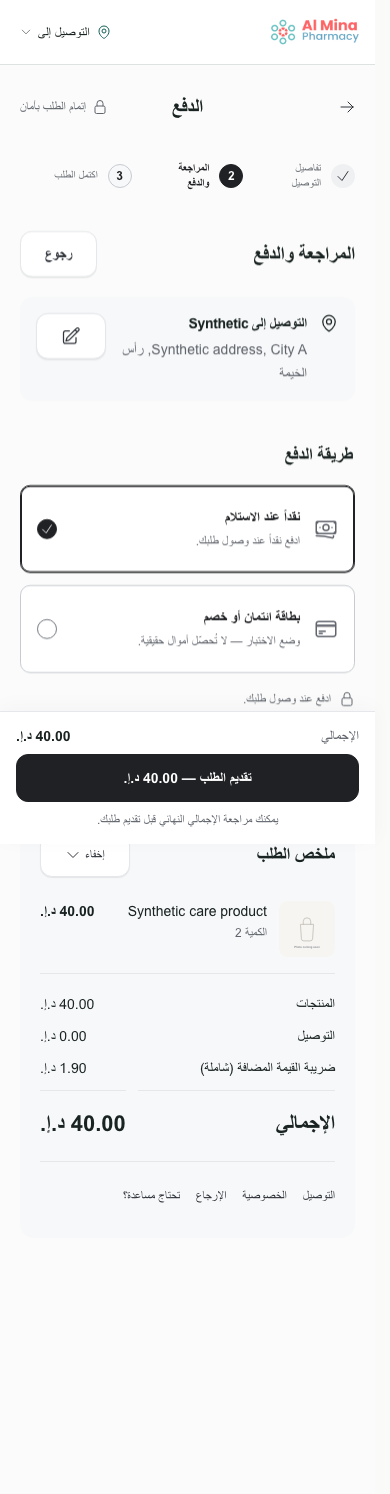
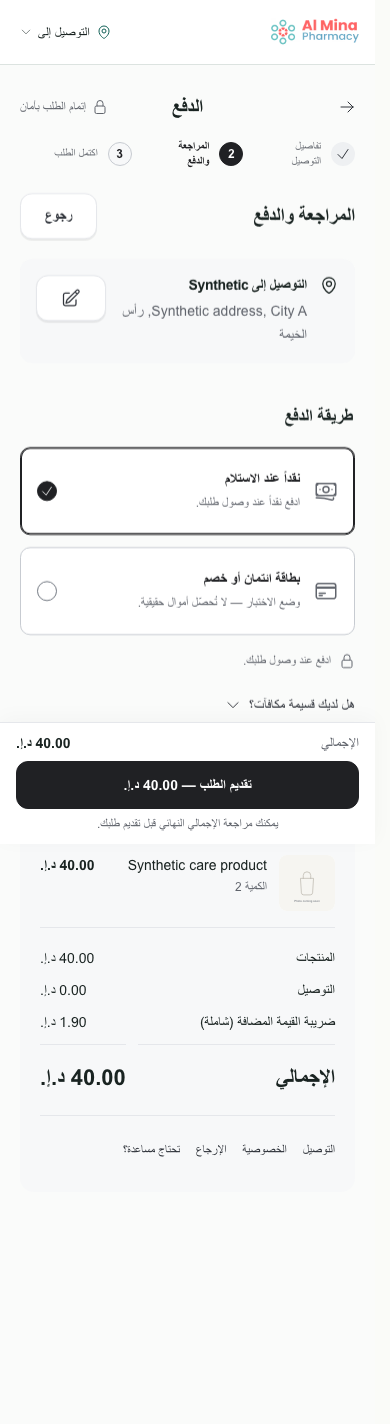
Polish checkout controls and compact mobile delivery form

diff --git a/apps/web/src/components/checkout-form.tsx b/apps/web/src/components/checkout-form.tsx
@@ -353,14 +353,14 @@ export function CheckoutForm({ locale = 'en', stripeMode='off',stripeTestMode=tr
               <Field><FieldLabel htmlFor={fieldIds.mobile}>{labels.mobile}</FieldLabel><Input id={fieldIds.mobile} name="mobile" defaultValue={attempt?.customer.mobile} required type="tel" inputMode="tel" pattern="\+?[0-9]{9,15}" autoComplete="tel" maxLength={32} placeholder={t(locale,'checkoutMobilePlaceholder')} {...fieldState('mobile')}/>{fieldIssue('mobile')}</Field>
               <Field className="sm:col-span-2"><FieldLabel htmlFor={fieldIds.email}>{labels.email}</FieldLabel><Input id={fieldIds.email} name="email" defaultValue={attempt?.customer.email} required type="email" inputMode="email" autoCapitalize="none" autoCorrect="off" maxLength={254} autoComplete="email" placeholder={t(locale,'checkoutEmailPlaceholder')} {...fieldState('email')}/>{fieldIssue('email')}</Field>
             </div></section>
-            <section className="checkout-form-section" aria-labelledby="delivery-details-heading"><div className="mb-4 flex flex-wrap items-center justify-between gap-2"><h3 id="delivery-details-heading" className="m-0 text-base font-semibold">{t(locale,'checkoutDeliveryAddress')}</h3><Button variant="ghost" type="button" size="sm" disabled={locating} onClick={locate}><Icon name="pin"/>{locating?t(locale,'checkoutLocating'):t(locale,'checkoutUseLocation')}</Button></div>
+            <section className="checkout-form-section" aria-labelledby="delivery-details-heading"><div className="mb-4 flex flex-wrap items-center justify-between gap-2"><h3 id="delivery-details-heading" className="m-0 text-base font-semibold">{t(locale,'checkoutDeliveryAddress')}</h3><Button variant="ghost" type="button" size="sm" disabled={locating} onClick={locate} aria-label={locating?t(locale,'checkoutLocating'):t(locale,'checkoutUseLocation')}><Icon name="pin"/><span className="lg:hidden">{locating?t(locale,'checkoutLocating'):(ar?'استخدام الموقع':'Use location')}</span><span className="hidden lg:inline">{locating?t(locale,'checkoutLocating'):t(locale,'checkoutUseLocation')}</span></Button></div>
               <input type="hidden" name="maplink" value={maplink}/>
               {locationMessage?<p role="status" className="mb-4 rounded-xl bg-subtle p-3 text-sm leading-6 text-ocean">{locationMessage}</p>:null}
               {maplink?<div className="mb-4 flex flex-wrap items-center gap-x-4 text-xs"><a className="inline-flex min-h-11 items-center text-teal underline" href={maplink} target="_blank" rel="noopener noreferrer" aria-label={t(locale,'checkoutCheckPinAria')}>{t(locale,'checkoutViewPin')}</a><button type="button" className="min-h-11 text-ocean" onClick={()=>{setMaplink('');setLocationMessage(t(locale,'checkoutPinRemoved'));setReviewed(null);}}>{t(locale,'checkoutRemovePin')}</button><a href="https://www.openstreetmap.org/copyright" target="_blank" rel="noopener noreferrer" className="text-ocean">{t(locale,'checkoutOsmCredit')}</a></div>:null}
               {savedAddresses.length?<Field className="mb-5"><FieldLabel htmlFor="checkout-form-field-4">{t(locale,'checkoutSavedAddress')}</FieldLabel><NativeSelect id="checkout-form-field-4" defaultValue="" onChange={event=>applySavedAddress(event.target.value)}><option value="">{t(locale,'checkoutChooseAddress')}</option>{savedAddresses.map(address=><option key={address.id} value={address.id}>{address.label}{address.isDefault?` · ${t(locale,'checkoutDefault')}`:''} — {address.city}</option>)}</NativeSelect></Field>:null}
-              <div className="grid gap-5 sm:grid-cols-2"><Field><FieldLabel htmlFor={fieldIds.emirate}>{labels.emirate}</FieldLabel><NativeSelect id={fieldIds.emirate} name="emirate" value={delivery.emirate} disabled={locating} onChange={event=>editDelivery('emirate',event.target.value)} required autoComplete="address-level1" {...fieldState('emirate')}>{emirates.map(value=><option key={value} value={value}>{emirateLabel(locale,value)}</option>)}</NativeSelect>{fieldIssue('emirate')}</Field>
+              <div className="checkout-address-grid grid gap-5 sm:grid-cols-2"><Field><FieldLabel htmlFor={fieldIds.emirate}>{labels.emirate}</FieldLabel><NativeSelect id={fieldIds.emirate} name="emirate" value={delivery.emirate} disabled={locating} onChange={event=>editDelivery('emirate',event.target.value)} required autoComplete="address-level1" {...fieldState('emirate')}>{emirates.map(value=><option key={value} value={value}>{emirateLabel(locale,value)}</option>)}</NativeSelect>{fieldIssue('emirate')}</Field>
                 <Field><FieldLabel htmlFor={fieldIds.city}>{labels.city}</FieldLabel><Input id={fieldIds.city} name="city" value={delivery.city} disabled={locating} onChange={event=>editDelivery('city',event.target.value)} required maxLength={200} autoComplete="address-level2" placeholder={t(locale,'checkoutCityPlaceholder')} {...fieldState('city')}/>{fieldIssue('city')}</Field>
-                <Field className="sm:col-span-2"><FieldLabel htmlFor={fieldIds.address}>{labels.address}</FieldLabel><Input id={fieldIds.address} name="address" value={delivery.address} disabled={locating} onChange={event=>editDelivery('address',event.target.value)} required maxLength={1000} autoComplete="street-address" placeholder={t(locale,'checkoutStreetPlaceholder')} {...fieldState('address')}/>{fieldIssue('address')}</Field>
+                <Field className="col-span-2"><FieldLabel htmlFor={fieldIds.address}>{labels.address}</FieldLabel><Input id={fieldIds.address} name="address" value={delivery.address} disabled={locating} onChange={event=>editDelivery('address',event.target.value)} required maxLength={1000} autoComplete="street-address" placeholder={t(locale,'checkoutStreetPlaceholder')} {...fieldState('address')}/>{fieldIssue('address')}</Field>
               </div>
               <details className="checkout-optional mt-4"><summary className="inline-flex min-h-11 cursor-pointer list-none items-center gap-2 text-sm font-medium text-teal">{ar?'إضافة تفاصيل المبنى أو تعليمات التوصيل':'Add building details or delivery instructions'}<ChevronDownIcon className="size-4" aria-hidden="true"/></summary><div className="grid gap-5 py-3 sm:grid-cols-2">
                 <Field><FieldLabel htmlFor="checkout-form-field-8">{t(locale,'checkoutBuilding')}</FieldLabel><Input id="checkout-form-field-8" name="buildingname" defaultValue={attempt?.customer.buildingname} maxLength={200} autoComplete="address-line2" placeholder={t(locale,'checkoutBuildingPlaceholder')}/></Field>

diff --git a/apps/web/src/app/(storefront)/storefront.css b/apps/web/src/app/(storefront)/storefront.css
@@ -412,3 +412,47 @@ body:has(.delivery-area-sheet[open]) { overflow: hidden; }
  @keyframes checkout-receipt-in { from {transform:translateY(5px);opacity:.6} to {transform:translateY(0);opacity:1} }
 }
 .checkout-flow.checkout-completion,.checkout-flow.checkout-payment-result { max-width:40rem; }
+
+/* Inset labels stay visible during typing; section spacing carries the grouping. */
+.checkout-form-section [data-slot='field'] { position:relative; gap:0; }
+.checkout-form-section [data-slot='field-label'] { position:absolute; z-index:1; top:9px; inset-inline-start:15px; width:auto; max-width:calc(100% - 30px); margin:0; color:#60646c; font-size:.75rem; line-height:1rem; font-weight:500; pointer-events:none; }
+.checkout-form-section :is([data-slot='input'],select) { min-height:64px; height:64px; padding-block:26px 9px; border:1px solid #d7dbe0; border-radius:12px; background:#f7f8fa; box-shadow:none; color:#202124; caret-color:#202124; }
+.checkout-form-section :is([data-slot='input'],select):hover:enabled { border-color:#a2a8b1; background:#f7f8fa; }
+.checkout-form-section :is([data-slot='input'],select):focus-visible { background:#fff; border-color:#30343b; outline:2px solid #30343b; outline-offset:2px; }
+.checkout-form-section :is([data-slot='input'],select)[aria-invalid='true'] { border-color:var(--color-sale); }
+.checkout-form-section [data-slot='field']:focus-within>[data-slot='field-label'] { color:#202124; }
+.checkout-form-section [data-slot='native-select-icon'] { top:39px; color:#4e5560; }
+.checkout-form-section [data-slot='field']>p { margin-block:6px 0; }
+.checkout-form-section>.grid,.checkout-optional>div { gap:12px; }
+.checkout-form-section>div:has(>h3) { margin-bottom:12px; }
+.checkout-form-section h3 { margin-bottom:12px; }
+.checkout-form-heading { padding-bottom:16px; }
+.checkout-flow .checkout-form-section { padding-block:20px; }
+.checkout-address-grid { grid-template-columns:repeat(2,minmax(0,1fr)); }
+.checkout-form-section select { padding-inline-end:36px; text-overflow:ellipsis; }
+@supports (appearance:base-select) {
+ .checkout-form select,.checkout-form select::picker(select) { appearance:base-select; }
+ .checkout-form select::picker-icon { display:none; }
+ .checkout-form select::picker(select) { margin-block:6px; padding:6px; background:#fff; border:1px solid #d7dbe0; border-radius:14px; box-shadow:0 8px 24px rgb(20 25 35 / 12%); max-height:320px; overflow:auto; color:#202124; }
+ .checkout-form select option { display:flex; align-items:center; gap:10px; min-height:44px; padding:10px 12px; border-radius:8px; font-size:.9375rem; line-height:1.4; cursor:pointer; }
+ .checkout-form select option:checked { background:#edf0f4; font-weight:600; }
+ .checkout-form select option:is(:hover,:focus) { background:#f2f4f7; outline:none; }
+ .checkout-form select option::checkmark { order:2; margin-inline-start:auto; }
+}
+@media (max-width:1023px) {
+ .checkout-topbar { margin-bottom:10px; }
+ .checkout-progress { padding-block:0 12px; margin-bottom:12px; }
+ .checkout-basket-preview { margin-bottom:20px; }
+ .checkout-basket-preview>summary { min-height:44px; }
+ .checkout-form-heading h2 { font-size:1.25rem; margin-bottom:4px; }
+ .checkout-form-heading>p { font-size:.75rem; line-height:1.5; }
+ .checkout-flow .checkout-form-section { padding-block:16px; }
+ .checkout-form-section [data-slot='field-label'] { top:8px; inset-inline-start:13px; }
+ .checkout-form-section :is([data-slot='input'],select) { height:60px; min-height:60px; padding-block:23px 8px; padding-inline-start:12px; }
+ .checkout-form-section select { font-size:.875rem; }
+ .checkout-form-section [data-slot='native-select-icon'] { top:36px; inset-inline-end:12px; }
+ .checkout-optional { margin-top:8px; }
+ .checkout-mobile-action { padding-block:10px calc(10px + env(safe-area-inset-bottom)); }
+ .checkout-mobile-action>p { margin-top:5px; }
+ .checkout-flow { padding-bottom:8.5rem; }
+}

diff --git a/tests/e2e/checkout-design-review.spec.ts b/tests/e2e/checkout-design-review.spec.ts
@@ -13,11 +13,22 @@ test('final checkout evidence, responsive controls, RTL and reduced motion',asyn
  await page.getByRole('button',{name:'Back',exact:true}).click();
  await expect(page.getByRole('heading',{name:'Contact and delivery',exact:true})).toBeFocused();
  await page.evaluate(()=>new Promise<void>(resolve=>requestAnimationFrame(()=>{window.scrollTo(0,0);requestAnimationFrame(()=>requestAnimationFrame(()=>resolve()));})));await page.screenshot({path:`${directory}/mobile-details.png`,fullPage:true});
+ await expect(page.locator('[name=address]')).toHaveCSS('height','60px');
+ expect(await page.locator('[name=address]').evaluate(el=>el.getBoundingClientRect().bottom+window.scrollY)).toBeLessThan(1000);
+ await page.getByRole('combobox',{name:'Emirate',exact:true}).click();
+ await page.evaluate(()=>new Promise<void>(resolve=>requestAnimationFrame(()=>requestAnimationFrame(()=>resolve()))));
+ await page.screenshot({path:`${directory}/dropdown.png`});
+ await page.keyboard.press('Escape');
  await page.getByRole('button',{name:'Continue to payment',exact:true}).click();
  await page.setViewportSize({width:1440,height:1000});await page.getByRole('button',{name:'العربية',exact:true}).click();
  await page.setViewportSize({width:390,height:844});await page.evaluate(()=>window.scrollTo(0,0));
  await expect(page.getByRole('heading',{name:'المراجعة والدفع',exact:true})).toBeVisible();
  await page.screenshot({path:`${directory}/arabic.png`,fullPage:true});
+ await page.getByRole('button',{name:'رجوع',exact:true}).click();
+ await expect(page.locator('.checkout-form-heading h2')).toBeFocused();
+ await page.evaluate(()=>new Promise<void>(resolve=>requestAnimationFrame(()=>{window.scrollTo(0,0);requestAnimationFrame(()=>requestAnimationFrame(()=>resolve()));})));
+ await page.screenshot({path:`${directory}/arabic-details.png`,fullPage:true});
+ await page.getByRole('button',{name:'المتابعة إلى الدفع',exact:true}).click();
  await page.emulateMedia({reducedMotion:'reduce'});
  await page.getByRole('button',{name:/تقديم الطلب/}).click();
  await expect(page.getByRole('heading',{name:'تم استلام الطلب',exact:true})).toBeVisible();

diff --git a/docs/migration/CHECKOUT_UX_2026-10-30.md b/docs/migration/CHECKOUT_UX_2026-10-30.md
@@ -8,17 +8,19 @@ Detail validation reuses the commerce contract. Formatted and Arabic-digit mobil
 
 Owner's later reference feedback replaces the initial mint treatment with scoped white, charcoal and cool gray. Related controls group through proximity, complete payment cards are touch targets, and the total/action hold the strongest emphasis. Product thumbnails persist after review. Verified success uses a short blue ring/receipt reveal. Motion uses CSS transform/opacity, existing easing, pointer gating and reduced-motion overrides; no dependencies added.
 
+The latest control refinement keeps labels persistently inset above entered values and uses soft filled fields with 12px corners, 60px height on mobile/tablet and 64px from 1024px. Emirate and City share one row even on narrow phones. Compact header, basket and contact/address spacing reduce the delivery form’s height without removing fields. The mobile location action reads “Use location” (with its Arabic equivalent), while its full localized accessible name remains intact. Native selects gain a styled option menu only inside `@supports (appearance:base-select)`, using `::picker(select)`; supporting Chromium was captured with the menu open. Other engines retain their system picker. This is progressive native styling, not a universally custom dropdown, and adds no JavaScript dependency.
+
 ## Verification and limits
 
 Final validation passed: 252 unit tests, 179 disposable integration tests, typecheck, lint and the isolated production build. The actual Playwright checkout/payment run passed all 35 cases, covering responsive checkout at 360/390/768/1280px and card flow at 1440px; axe checks on checkout and cash confirmation; a real order in a disposable database; changed-price review; saved-intent retry; GPS/manual fallbacks; and mocked card cancellation, refund, paid, idempotency and authorization states. Card provider outcomes were mocked; no external payment was executed. Next.js MCP reported no compilation issues.
 
-The separate final capture test passed. Final renders were opened and inspected under `apps/web/.impeccable/review/checkout-final/`: `desktop.png`, `mobile.png`, `mobile-details.png`, `user-360.png`, `user-768.png`, `arabic.png` and `confirmation.png`. These show the final neutral revision; the captures under `checkout-before-reference-revision/` are superseded. The capture test confirmed the normal-mode success animation as `checkout-success-settle` with a `0.28s` duration. Browser emulation of reduced motion confirmed animation/transition suppression (`none`) on the checked checkout elements. This is actual browser evidence, separate from the CSS inspection and automated functional suite.
+The separate final capture test passed. Final renders were opened and inspected under `apps/web/.impeccable/review/checkout-final/`: `desktop.png`, `mobile.png`, `mobile-details.png`, `user-360.png`, `user-768.png`, `arabic.png`, `arabic-details.png`, `dropdown.png` and `confirmation.png`. These show the final neutral revision; the captures under `checkout-before-reference-revision/` are superseded. The capture test confirmed the normal-mode success animation as `checkout-success-settle` with a `0.28s` duration. The latest capture assertions also checked 60px mobile fields, paired Emirate/City, a mobile street-address bottom below 1000px in document coordinates, RTL and an open picker contained within the viewport. Browser emulation of reduced motion confirmed animation/transition suppression (`none`) on the checked checkout elements. This is actual browser evidence, separate from the CSS inspection and automated functional suite.
 
 No real charge, production order, production configuration change or deployment occurred. Physical phone behavior and an external payment-provider charge remain untested. No quantified PageSpeed improvement is claimed.
 
 ### Finish review
 
-The independent finish reviewer returned **ship** after the full five-section review, with no material fixes required. This disposition applies to the scoped checkout extension and its final source/render evidence; physical-phone and real-charge acceptance remain the separate limits stated above.
+The independent finish reviewer accepted the latest inset-label and native-picker refinement visually and requested one documentation fix. The checkout-specific control rules were added to DESIGN.md without changing the shared control baseline. The reviewer scored that fix resolved and returned **ship**. Physical-phone and real-charge acceptance remain the separate limits stated above.
 
 Rollback: revert the frontend change; no database migration or integration configuration rollback is needed.
 
@@ -30,21 +32,21 @@ sidecar, `apps/web/PRODUCT.md` and the checkout surface contract at
 against `checkout-form.tsx`, `checkout-ui.tsx`, `stripe-return.tsx` and the final
 checkout rules in `apps/web/src/app/(storefront)/storefront.css`. The document
 reference was read in full. This is an ordinary checkout extension; the existing
-design document and sidecar are preserved. The observations below compare final source with the opened final captures. Exact
+global design tokens and sidecar are preserved; DESIGN.md now includes an additive checkout-control subsection. The observations below compare final source with the opened final captures. Exact
 values are source declarations; screenshots corroborate their visible use without
 establishing new storefront tokens or a measured pixel-match claim.
 
 - **Palette:** checkout locally overrides ink to charcoal (`#202124`), supporting
   text to cool gray (`#60646c` / `#656970`), subtle surfaces to `#f7f8f9` and
-  control boundaries to `#c7cbd1`. Selected payment cards remain white with a
+  control defaults to `#c7cbd1`; the final inset fields locally use `#d7dbe0` boundaries and `#f7f8fa` fill. Selected payment cards remain white with a
   charcoal boundary and radio mark. Verified confirmation uses blue (`#2459a6`)
   on `#edf3fc`, with a `#b9cdec` ring. Error and warning semantics remain separate.
   This records the owner's neutral checkout request without replacing the
   incumbent storefront coral/pastel palette.
 - **Typography:** checkout inherits the existing storefront family and Arabic
-  fallback, visible in the English and RTL captures respectively. Source uses a 20/24px responsive checkout title, a 22px contact and
-  delivery heading, 18px summary heading, 16px field text, 14px labels/body and
-  12px supporting copy. The final total is 22px with tabular numerals. Confirmation
+  fallback, visible in the English and RTL captures respectively. Source uses a 20/24px responsive checkout title, a 20px mobile/22px desktop contact and
+  delivery heading, 18px summary heading, 16px input text, 14px mobile select text,
+  12px inset labels and supporting copy, and compact 14px body copy. The final total is 22px with tabular numerals. Confirmation
   uses 24/30px in the cash receipt and 24px in the hosted-payment return.
 - **Layout and depth:** the desktop capture shows grouped fields left and the
   quiet summary right; mobile/tablet captures show the separate review stage,
@@ -52,20 +54,22 @@ establishing new storefront tokens or a measured pixel-match claim.
   sits beside a 380px sticky summary with an 80px gap. Mobile shows details and
   payment as separate stages and uses a bottom action with safe-area padding.
   The form groups through spacing and separators, while the summary has a quiet
-  gray fill. Field and bottom-action shadows are faint ambient effects; no hard
+  gray fill. Final inset fields have no shadow. The bottom action retains a faint ambient
+  shadow, and supported native pickers use a soft overlay shadow; no hard
   offset shadow is introduced.
 - **Components and existing rules:** Heroicons, native payment radios, labelled
-  fields, linked validation, 48px primary controls and 44px utility targets retain
-  incumbent conventions. The Coral With Ink Rule still applies wherever coral
+  fields, linked validation, 48px primary actions and 44px utility targets retain
+  incumbent conventions. Checkout fields deliberately extend the shared 48px baseline to
+  60px on mobile/tablet and 64px on desktop for persistent inset labels. The Coral With Ink Rule still applies wherever coral
   is used; the Flat Product Rule is unchanged. Checkout's native disclosures,
   full-card payment labels and server-confirmed totals are local task patterns,
   not new global visual prohibitions. Existing motion easing is reused, with
   reduced-motion overrides; receipt/ring effects are declared locally and do
   not establish an entrance-animation requirement for future commerce surfaces.
-- **Shapes and contract alignment:** the final CSS declares 9px field corners,
+- **Shapes and contract alignment:** the final CSS declares 12px inset-field corners,
   10px payment/action corners and a 14px summary, with charcoal progress and blue
-  verified success. The surface contract was reconciled to these source values
-  during this pass. The captures show the neutral progress, selected radio card and blue
+  verified success. The surface contract records the final 60/64px inset-field extension and
+  feature-gated native picker. The captures show the neutral progress, selected radio card and blue
   confirmation ring. These remain local checkout observations and are not added
   to the incumbent storefront token scales.
 

diff --git a/apps/web/DESIGN.md b/apps/web/DESIGN.md
@@ -231,6 +231,16 @@ Product cards have 16px corners, white fill, pale 1px borders and 12px padding. 
 
 Shared Input and NativeSelect use subtle fill, `control-border`, 12px corners, 48px minimum height and 12px 16px padding. Hover/focus lifts the fill to white; focus uses an ink border and 2px outline/offset. Invalid states use sale boundaries and outlines; disabled states use neutral fill and muted text. Select chevrons use Heroicons. Checkboxes use a 20px square with 6px corners; checked state uses coral border/fill with an ink check and ink focus outline. The header search is a white bordered composite with a quiet white circular submit control and keyboard-operable suggestions. Field label/error relationships remain explicit.
 
+### Checkout fields (scoped extension)
+
+Checkout extends the shared 48px field baseline locally: persistent inset labels sit above entered values inside 60px fields below 1024px and 64px fields from 1024px, with 12px corners and no field shadow. Labels are 12px; input values remain 16px, while mobile select values use 14px. Associated labels remain visible during typing, with linked errors and a visible keyboard focus outline.
+
+These controls use charcoal text (`#202124`), gray labels (`#60646c`), a soft filled surface (`#f7f8fa`) and a 1px boundary (`#d7dbe0`). Hover uses `#a2a8b1` boundaries; focus changes the fill to white with a `#30343b` border and 2px outline at 2px offset. Invalid boundaries retain the existing sale semantic. This local neutral palette does not replace the storefront palette or shared control tokens.
+
+Emirate and City remain paired in two equal columns on phones; the street address spans both columns. Compact section spacing groups contact and delivery fields without adding individual field containers. The mobile location action uses shorter visible copy while retaining its full localized accessible name.
+
+Selects retain native semantics. Inside `@supports (appearance:base-select)`, `::picker(select)` receives a white menu with a `#d7dbe0` boundary, 14px corners, soft overlay shadow and at least 44px options; the selected option uses `#edf0f4` and semibold text. Other engines retain their system picker. This enhancement introduces no JavaScript dependency and is not a requirement to replace native selection on other surfaces.
+
 ### Navigation
 
 The category mega menu is a Radix Popover disclosure: two browsing columns at tablet widths and a third mint help panel at large widths. Mobile uses a Radix Dialog drawer with scrollable links, a fixed account/language footer and an explicit close action. Menus dismiss with Escape/outside interaction, restore focus, and close across the mobile breakpoint. Search is a neutral composite field with an ink submit action, useful initial suggestions, recent searches and keyboard-operable live results.

diff --git a/docs/migration/MIGRATION_STATUS.md b/docs/migration/MIGRATION_STATUS.md
@@ -1,6 +1,6 @@
 ## 2026-10-30 — Responsive checkout UX (locally verified)
 
-Implemented guided mobile checkout, desktop side-by-side review, native payment radios, contract validation and lightweight confirmation motion. Owner reference feedback is reflected in the final neutral palette. All 35 actual checkout/payment Playwright cases passed, covering responsive layouts, checkout/cash-confirmation axe checks, disposable cash orders, changed-price review, saved-intent retry, GPS and mocked card outcomes. The separate final capture test passed; final desktop/mobile/tablet/Arabic/confirmation renders were opened, and reduced-motion suppression was checked in the browser. Also passed: 252 unit and 179 disposable integration tests, typecheck, lint, isolated production build and clean Next.js MCP compilation diagnostics. Existing DESIGN.md and sidecar remain unchanged. Physical-phone and real-charge acceptance remain untested; no production order or deployment occurred. See [checkout UX, scoped design comparison and finish review](CHECKOUT_UX_2026-10-30.md).
+Implemented guided mobile checkout, desktop side-by-side review, native payment radios, contract validation and lightweight confirmation motion. Owner reference feedback is reflected in the final neutral palette, persistent inset labels, 60px mobile/64px desktop filled fields, paired Emirate/City and tighter mobile grouping. Native selects have a styled picker where `appearance:base-select` is supported and retain system pickers elsewhere; no JavaScript dependency was added. All 35 actual checkout/payment Playwright cases passed, covering responsive layouts, checkout/cash-confirmation axe checks, disposable cash orders, changed-price review, saved-intent retry, GPS and mocked card outcomes. The separate final capture test passed; final desktop/mobile/tablet/Arabic/confirmation and open-picker renders were opened, and reduced-motion suppression was checked in the browser. Also passed: 252 unit and 179 disposable integration tests, typecheck, lint, isolated production build and clean Next.js MCP compilation diagnostics. The scoped checkout-control rules are documented in DESIGN.md; global tokens and the sidecar are preserved. The independent reviewer returned ship after resolving its documentation fix. Physical-phone and real-charge acceptance remain untested; no production order or deployment occurred. See [checkout UX, scoped design comparison and finish review](CHECKOUT_UX_2026-10-30.md).
 
 ## 2026-10-27 — Catalogue filter UI refinement
 

diff --git a/apps/web/.impeccable/surfaces/apps-web-src-components-checkout-form-tsx.md b/apps/web/.impeccable/surfaces/apps-web-src-components-checkout-form-tsx.md
@@ -13,7 +13,7 @@ Mode: Operate. Existing Al Mina storefront world; code-led refinement of the use
 
 THESIS: A guided handoff from delivery details to a confident final review. Replace the long mobile form and buried dropdown with two focused stages and native radio payment choices.
 
-OWN-WORLD: Existing Geist with a checkout-specific white, charcoal and cool-gray palette; charcoal progress and blue reserved for verified success. Crisp 9–14px checkout corners, 48px fields, Heroicons, honest totals and quiet separators; no new identity or motion dependency.
+OWN-WORLD: Existing Geist with a checkout-specific white, charcoal and cool-gray palette; charcoal progress and blue reserved for verified success. Crisp 12–14px checkout corners, 60px mobile/64px desktop inset-label fields, Heroicons, honest totals and quiet separators; no new identity or motion dependency.
 
 STORY: Recognise the basket, enter essential details, review the server-confirmed total, select card or cash, then receive a clear verified outcome. Back/edit preserves entered fields. Optional address details and vouchers disclose on demand.
 
@@ -24,3 +24,5 @@ FORM: Owner confirmed guided mobile stages and desktop side by side, following t
 FINISH: unreviewed and undocumented is unfinished; this build ends with the finish review, the verdict, DESIGN.md, and every shipping raster carrying its provenance
 
 Constraints: two new-order payment choices, hosted card collection, immutable server totals, idempotency and legacy pending-method recovery. No fake trust claims, urgency or reviews. Reduced motion, keyboard radio navigation, RTL, explicit loading/error/retry states. No customer PII in persistent draft storage.
+
+Control refinement: persistent inset labels, soft filled fields, compact contact/address grouping, paired Emirate and City on phones. Styled native picker under appearance:base-select feature detection; other engines retain their system picker. No additional JavaScript or motion dependency. Mobile location action uses a shorter visible label with its full accessible name.
